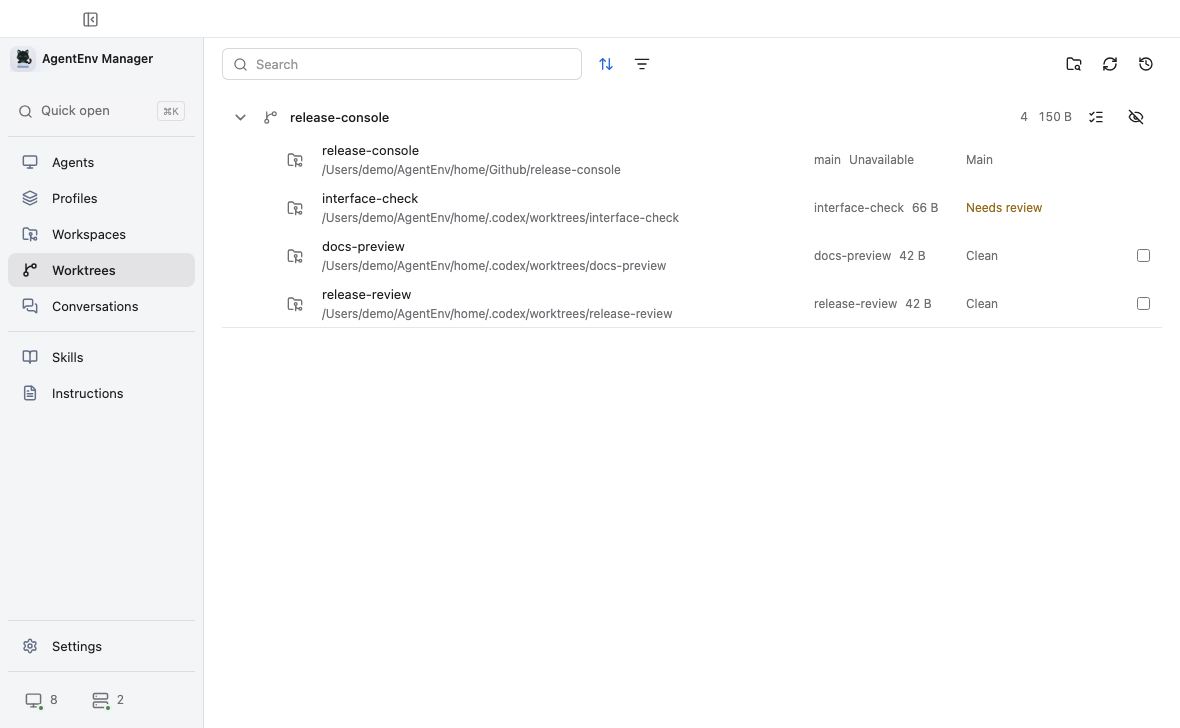
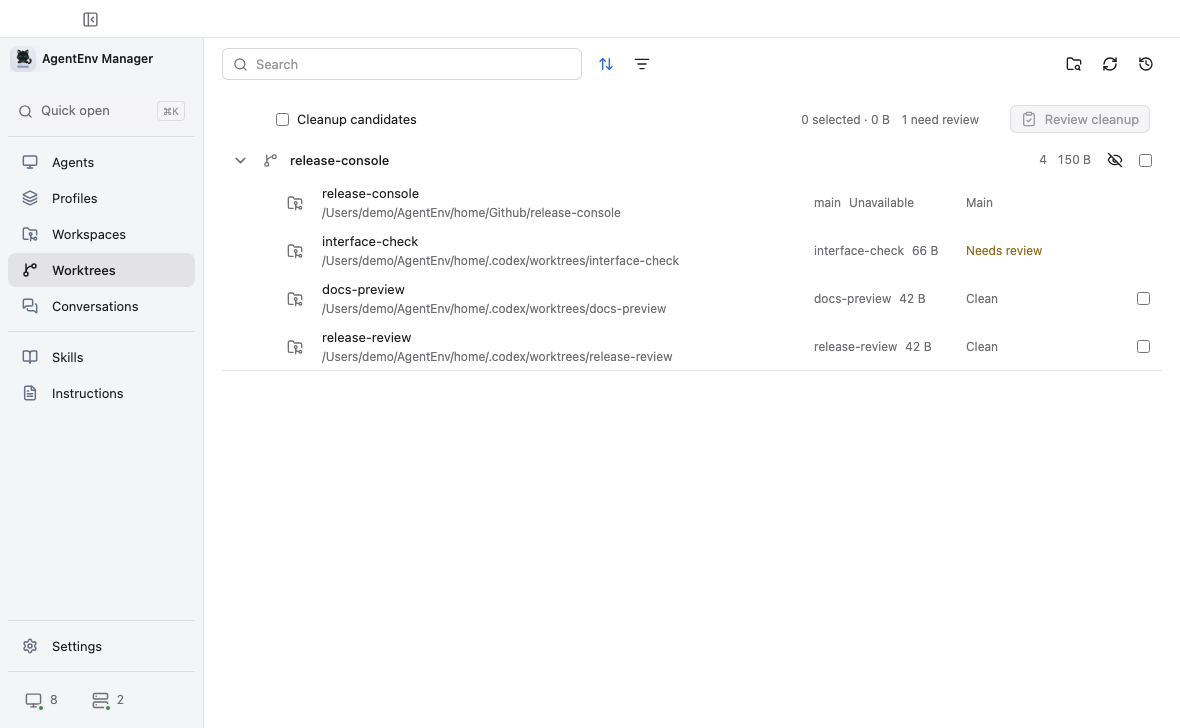
docs: document conversation recovery and worktree bulk cleanup

diff --git a/README.en.md b/README.en.md
@@ -13,7 +13,7 @@ AgentEnv Manager keeps coding agent environments in one place. Its main features
 - **Skills management:** Import Skills from local folders, ZIP archives, GitHub, or Git repositories, add tags and groups, and keep checking their sources for updates.
 - **Project environments:** Save local or SSH Linux project folders, manage their Instructions and Skills, and open an Agent or copy its launch command.
 - **Worktree cleanup:** See local Git worktree branches, uncommitted changes, and disk usage, then preview and remove worktrees you no longer need.
-- **Conversation search:** Search Agent histories on this computer and SSH devices from one place, with messages and full project paths. Reopen local sessions in their original Agent or hand them off to another.
+- **Conversation search:** Search Agent histories on this computer and SSH devices from one place, with messages and full project paths. Reopen local sessions in their original Agent or hand them off to another. Supported conversations can also be deleted and restored.
 - **Try before Apply:** Preview Profile changes and run the same task with the current setup and a proposed Profile before deciding whether to apply it.
 - **AI assistance:** Summarize Skill updates, suggest tags, or analyze Profiles and comparison results. Your configured AI service is called only when you ask.
 
@@ -92,7 +92,7 @@ Recent scan results appear immediately when you return to the page or restart th
 
 ![Git worktrees](docs/images/worktrees.png)
 
-Select all worktrees eligible for batch cleanup within a repository. Before removal, review paths, uncommitted content, size, and estimated freed space. Git removes the working directory, not local branches or remote history. Main repositories cannot be removed; dirty, locked, and other review-required entries need separate attention. Cleanup that retains a file backup does not count that space as freed, and recovery remains available in Worktrees.
+Select all eligible worktrees in the current filtered view or within one repository. Before removal, review paths, uncommitted content, size, and estimated freed space. Git removes the working directory while keeping branches and remote history. You can stop a batch after the current item finishes; remaining items are skipped. Main repositories cannot be removed; dirty, locked, and other review-required entries need separate attention. Retained file backups do not count as freed space and can be restored from Worktrees.
 
 If you are unsure what to keep, request an AI analysis from the review dialog. AgentEnv rereads Git state before analysis. Suggestions do not replace cleanup confirmation or relax deletion safeguards.
 
@@ -125,6 +125,10 @@ Local conversations can reopen in their original Agent or continue in another on
 ![Conversation history](docs/images/conversations.png)
 
 Browsing and searching are read-only. For supported Agents, you can explicitly move a conversation to another working directory after previewing the impact. The source Agent still owns the history; conversations are not included in Profiles or Device Sync.
+
+Local Codex, Claude Code, and Pi conversations support deletion from the context menu, with a preview of the original files to remove. Close the session in its original Agent first. You can undo deletion immediately or restore it from **More > Recently deleted** or the Data page in Settings. Restoration does not overwrite existing files. The original Agent's recent-session list may need a refresh to remove its entry.
+
+Deleted conversations are kept for 30 days by default. Their retention period is separate from configuration recovery points, and automatic cleanup can be turned off. Deletion is not available for SSH histories, additional history folders, or other Agents yet.
 
 ## Supported Agents
 

diff --git a/PRIVACY.md b/PRIVACY.md
@@ -34,6 +34,13 @@ default. It contains Profiles, the Skill Library, backups, recovery state,
 settings, and rebuildable caches. Target files are changed only by confirmed
 operations described in the Preview.
 
+When you delete a supported local conversation, AgentEnv saves its original
+files locally before removing them. These recovery copies stay in Recently
+deleted for 30 days by default, with retention configured separately from other
+recovery points. Clearing the search cache does not remove them. You can restore
+or permanently delete them through Backups & recovery. Restore does not overwrite
+files already at the original paths.
+
 Profile Compare creates two temporary, permission-restricted Agent homes and
 Workspace snapshots. To authenticate the selected Agent, it may copy that
 Agent's existing local credential file into each temporary home or pass

diff --git a/docs/images/README.md b/docs/images/README.md
@@ -14,6 +14,9 @@ write build fingerprints and image hashes to `capture-manifest.json` in each
 output directory. Keep the published image provenance in this directory's
 `capture-manifest.json` up to date.
 
+When refreshing one image, record its capture time and build in that file's
+manifest entry. The top-level build remains the default for earlier captures.
+
 The README includes both `skills-list.png` (tags and per-Skill updates) and
 `skills-by-source.png` (source scope and updates), plus `worktrees.png` with
 synthetic Git worktrees sorted by disk usage. The README fixture excludes
